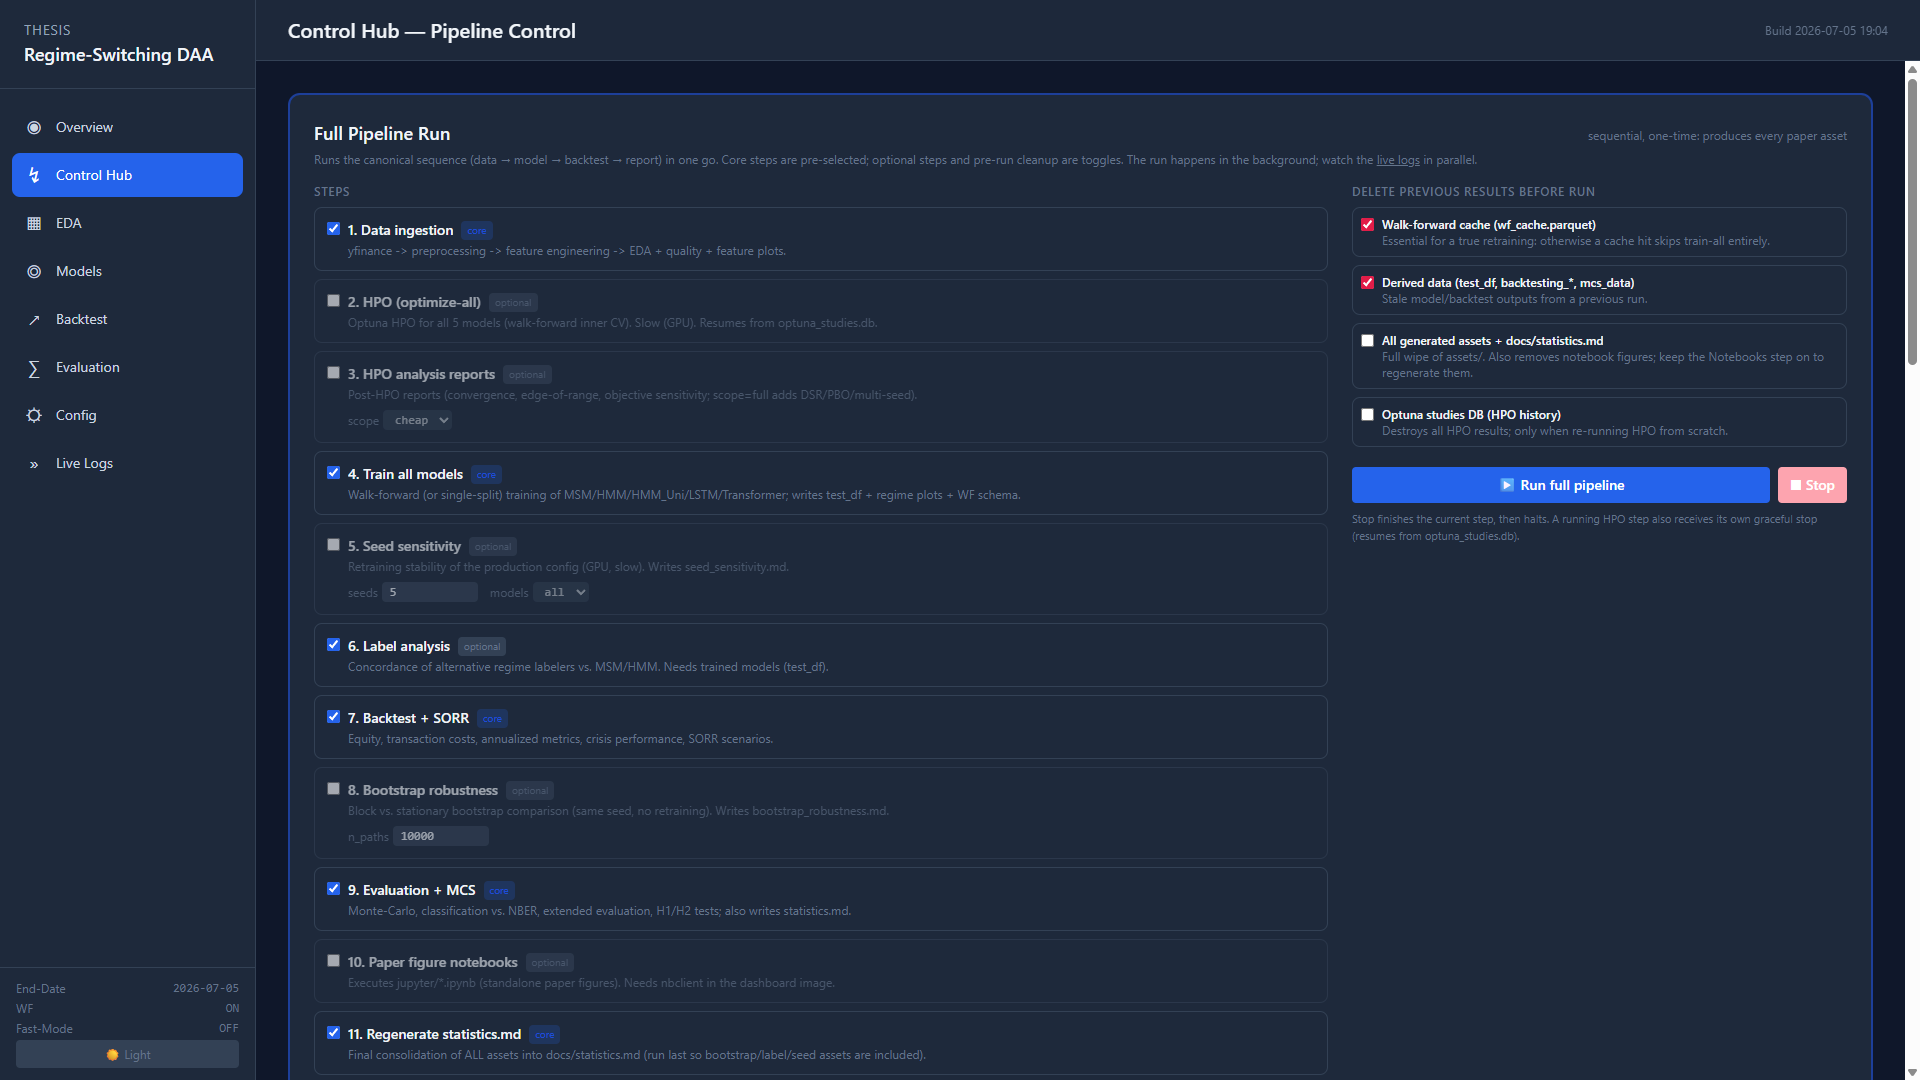
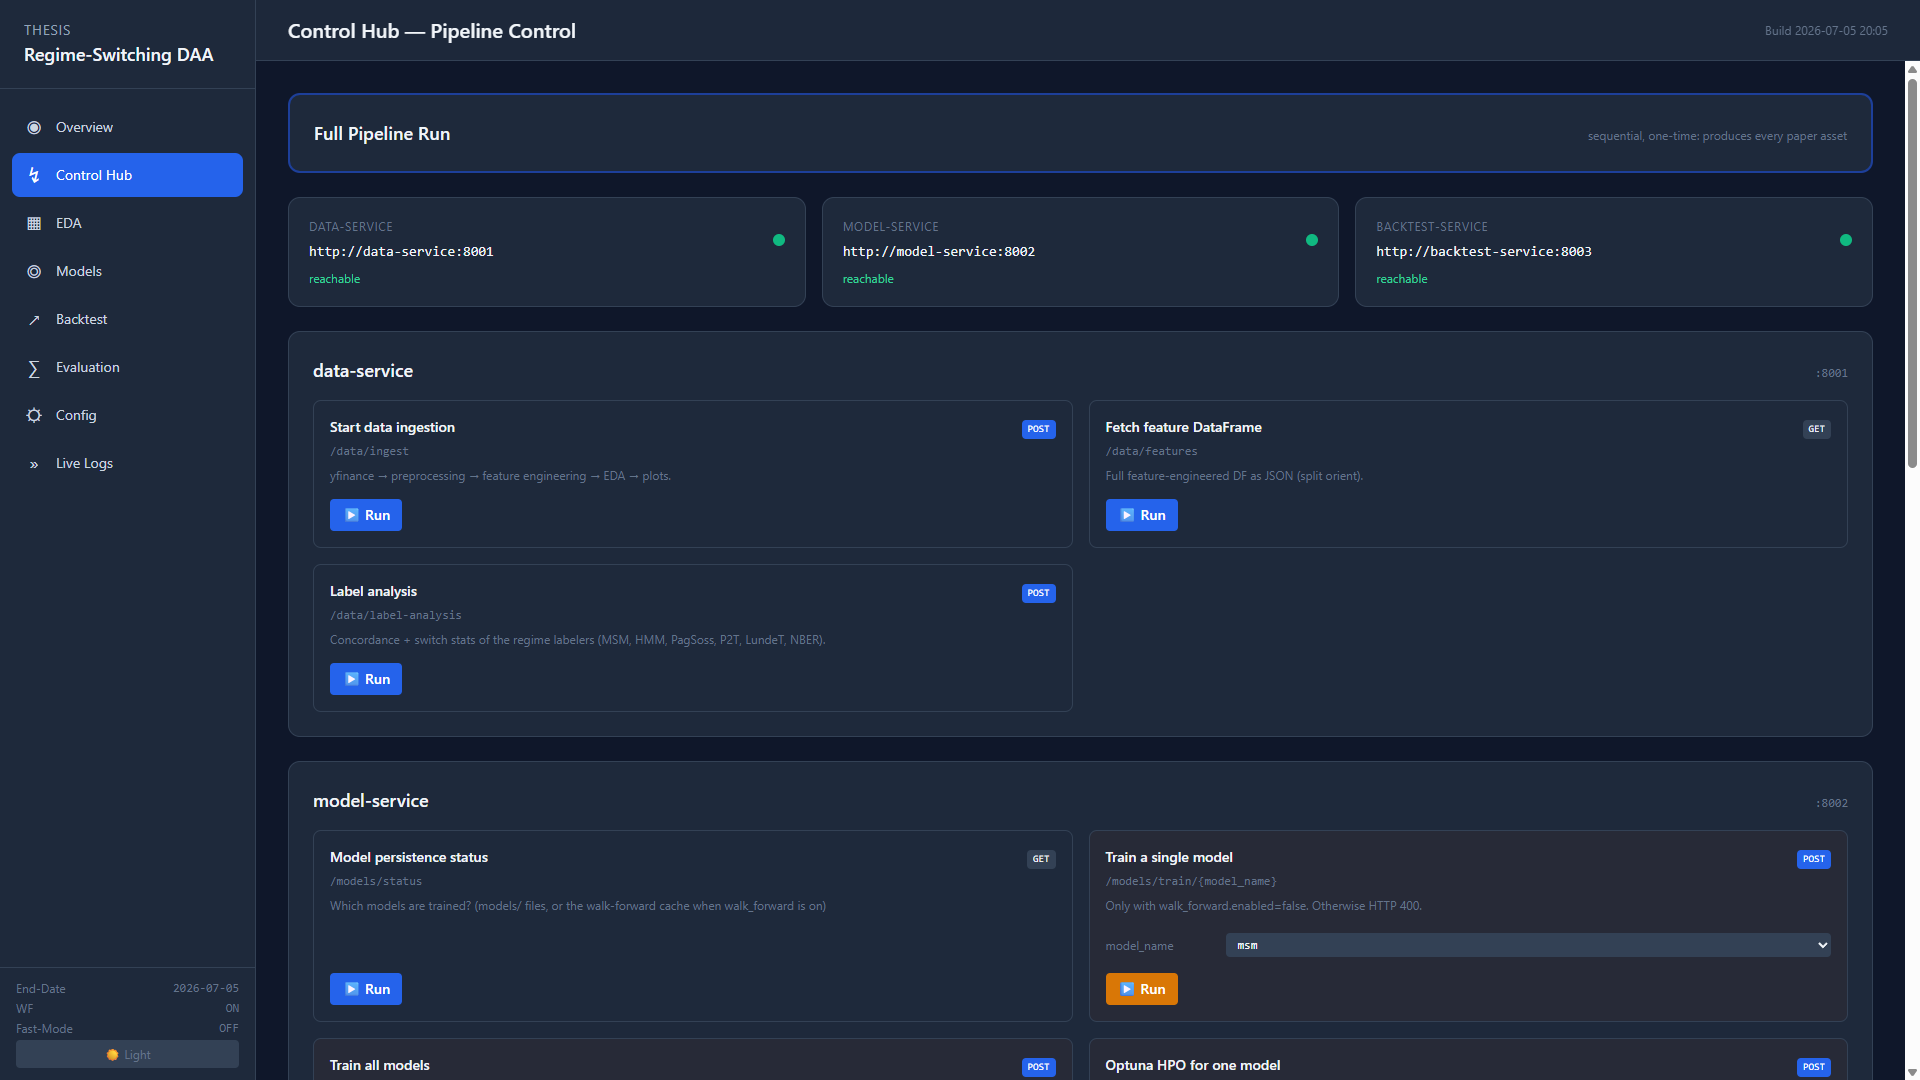
Collapse the Full Pipeline Run panel by default
Wrap the Control Hub's Full Pipeline Run panel in a <details> element (closed by default), matching the HPO Analysis section. Status polling keeps running while collapsed, so an active run is still tracked.

diff --git a/services/dashboard_service/templates/hub.html b/services/dashboard_service/templates/hub.html
@@ -7,15 +7,16 @@
 
   <!-- ============================================================= -->
   <!-- Full pipeline run: one-time "produce all assets" orchestrator -->
+  <!-- Collapsed by default (like the HPO Analysis section).          -->
   <!-- ============================================================= -->
-  <section class="bg-white dark:bg-slate-800 rounded-xl shadow-sm border-2 border-brand-300 dark:border-brand-700/60 p-6">
-    <div class="flex items-baseline justify-between mb-1">
-      <h2 class="text-lg font-semibold flex items-center gap-2">
+  <details class="bg-white dark:bg-slate-800 rounded-xl shadow-sm border-2 border-brand-300 dark:border-brand-700/60 p-6">
+    <summary class="cursor-pointer select-none flex items-baseline justify-between gap-2">
+      <h2 class="text-lg font-semibold inline-flex items-center gap-2">
         <span>Full Pipeline Run</span>
       </h2>
       <span class="text-xs text-slate-500">sequential, one-time: produces every paper asset</span>
-    </div>
-    <p class="text-xs text-slate-500 mb-4">
+    </summary>
+    <p class="text-xs text-slate-500 mb-4 mt-3">
       Runs the canonical sequence (data → model → backtest → report) in one go. Core steps are
       pre-selected; optional steps and pre-run cleanup are toggles. The run happens in the background;
       watch the <a href="/logs" class="underline">live logs</a> in parallel.
@@ -147,7 +148,7 @@
       <pre x-show="job.error" class="mt-3 p-3 bg-rose-950/90 text-rose-100 rounded text-xs overflow-auto max-h-40 font-mono"
            x-text="job.error"></pre>
     </div>
-  </section>
+  </details>
 
   <!-- Health status tiles -->
   <section class="grid grid-cols-1 md:grid-cols-3 gap-4">
